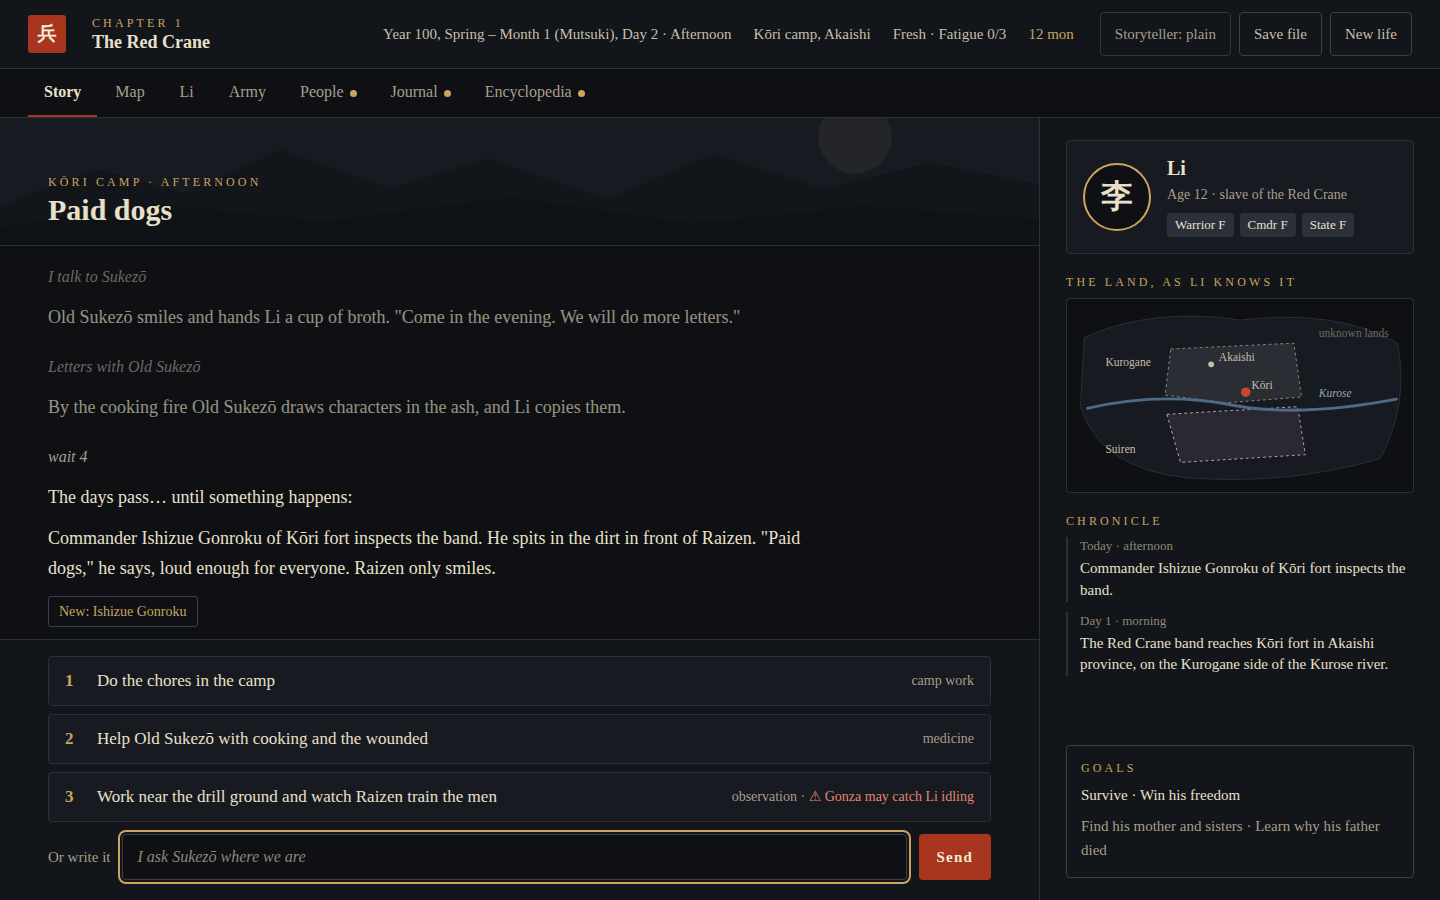
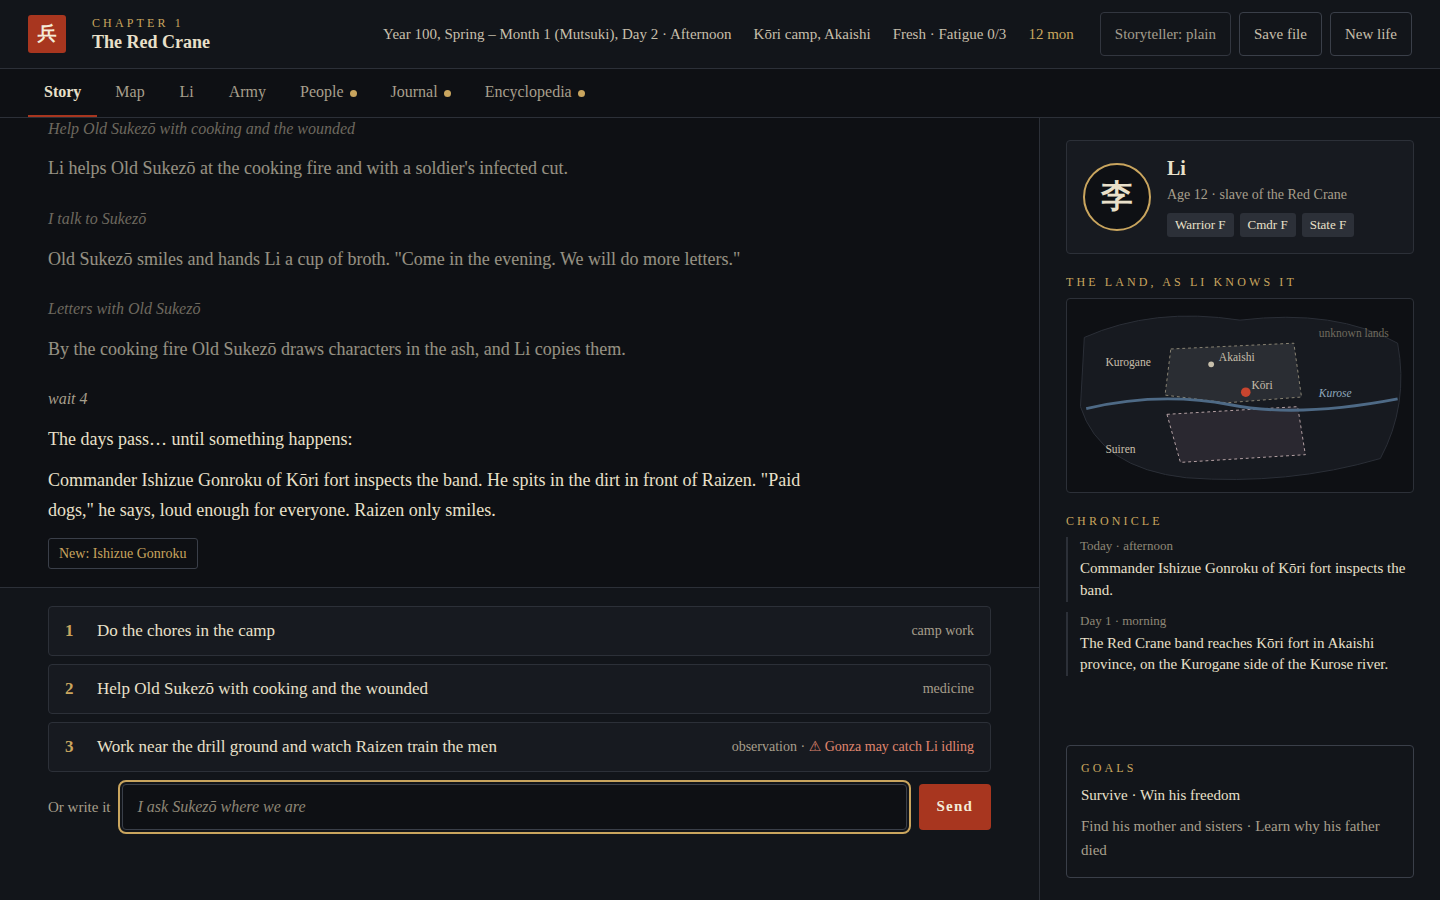
UI: story and choices scroll as one column, ink-style scrollbars, tidy top strip at medium widths; ui:check adds 900px and a no-second-scroll check (owner feedback)
Claude-Session: https://claude.ai/code/session_01Hy5aioMVNbQK4AcqJJf4SY

diff --git a/web/style.css b/web/style.css
@@ -19,6 +19,13 @@
 }
 
 [hidden] { display: none !important; }
+/* Scrollbars in the ink style: thin, dark, gold on hover. */
+* { scrollbar-width: thin; scrollbar-color: var(--line-2) transparent; }
+::-webkit-scrollbar { width: 10px; height: 10px; }
+::-webkit-scrollbar-track, ::-webkit-scrollbar-corner { background: transparent; }
+::-webkit-scrollbar-thumb { background: var(--line-2); border-radius: 6px; border: 3px solid transparent; background-clip: padding-box; }
+::-webkit-scrollbar-thumb:hover { background: #6F5A34; background-clip: padding-box; }
+::-webkit-scrollbar-button { display: none; height: 0; width: 0; }
 * { box-sizing: border-box; }
 html, body { height: 100%; }
 body { margin: 0; background: var(--ink); color: var(--paper); font: 18px/1.65 var(--body); -webkit-font-smoothing: antialiased; }
@@ -37,7 +44,11 @@ button { cursor: pointer; }
 .chapter { display: flex; flex-direction: column; line-height: 1.2; }
 .chapter-title { font: 600 18px var(--display); }
 .facts { flex: 1; display: flex; flex-wrap: wrap; justify-content: flex-end; gap: 4px 22px; margin: 0; font-size: 15px; color: var(--paper-2); }
-.facts dd { margin: 0; }
+.facts dd { margin: 0; white-space: nowrap; }
+@media (max-width: 1180px) {
+  .facts { order: 3; flex-basis: 100%; justify-content: flex-start; gap: 2px 22px; }
+  .file { margin-left: auto; }
+}
 .file { display: flex; gap: 8px; }
 .file button, .savebox button { min-height: 44px; padding: 0 14px; background: none; border: 1px solid var(--line-2); border-radius: 4px; font-size: 15px; color: var(--paper-2); }
 .file button:hover, .savebox button:hover { border-color: var(--gold); color: var(--paper); }
@@ -58,7 +69,8 @@ button { cursor: pointer; }
 /* Body: story column + side panel */
 .body { flex: 1; min-height: 0; display: flex; }
 .panel { flex: 1; min-width: 0; }
-.story-panel { display: flex; flex-direction: column; border-right: 1px solid var(--line); }
+/* One scroll for the story column: the story, then the choices right under it (no separate scroll areas). */
+.story-panel { display: block; overflow-y: auto; overscroll-behavior: contain; border-right: 1px solid var(--line); }
 
 .scene { position: relative; height: 128px; flex-shrink: 0; overflow: hidden; background: var(--ink-2); border-bottom: 1px solid var(--line); }
 .ridge { position: absolute; inset: 0; width: 100%; height: 100%; }
@@ -72,7 +84,7 @@ button { cursor: pointer; }
 .scene-text { position: absolute; left: 48px; bottom: 18px; display: flex; flex-direction: column; gap: 2px; }
 .scene-title { font: 600 30px/1.15 var(--display); }
 
-.log { flex: 1; min-height: 0; overflow-y: auto; padding: 26px 48px 12px; display: flex; flex-direction: column; gap: 22px; }
+.log { padding: 26px 48px 18px; display: flex; flex-direction: column; gap: 22px; }
 .turn { display: flex; flex-direction: column; gap: 12px; max-width: 760px; }
 .turn.old { opacity: .62; }
 .said { margin: 0; font-style: italic; color: var(--faded); font-size: 16px; }
@@ -86,7 +98,7 @@ button { cursor: pointer; }
 .chip.down { color: var(--risk); }
 .chip.new { color: var(--gold); }
 
-.choose { flex-shrink: 0; display: flex; flex-direction: column; gap: 8px; padding: 16px 48px 20px; background: var(--ink-3); border-top: 1px solid var(--line); max-height: 52%; overflow-y: auto; }
+.choose { display: flex; flex-direction: column; gap: 8px; padding: 18px 48px 28px; background: var(--ink-3); border-top: 1px solid var(--line); min-height: 40%; }
 .duel { padding: 12px 16px; border: 1px solid var(--seal); border-radius: 4px; background: #1C1313; font-size: 15px; white-space: pre-line; color: var(--paper-2); }
 .duel strong { display: block; font: 600 17px var(--display); color: var(--paper); margin-bottom: 4px; }
 .opts { display: flex; flex-direction: column; gap: 8px; }
@@ -185,10 +197,10 @@ button { cursor: pointer; }
   .tabs { padding: 0 8px; }
   .tabs button { padding: 0 12px; font-size: 15px; }
   /* The page scrolls as a whole on a phone; the choices stay pinned at the bottom. */
+  /* On a phone the whole page scrolls as one. */
   .app { height: auto; min-height: 100dvh; }
-  .body, .story-panel { display: block; }
-  .log { overflow: visible; }
-  .choose { position: sticky; bottom: 0; max-height: 48vh; box-shadow: 0 -12px 24px var(--ink); }
+  .body { display: block; }
+  .story-panel { overflow: visible; }
   .scene { height: 84px; }
   .scene-text { left: 16px; bottom: 12px; }
   .scene-title { font-size: 23px; }
